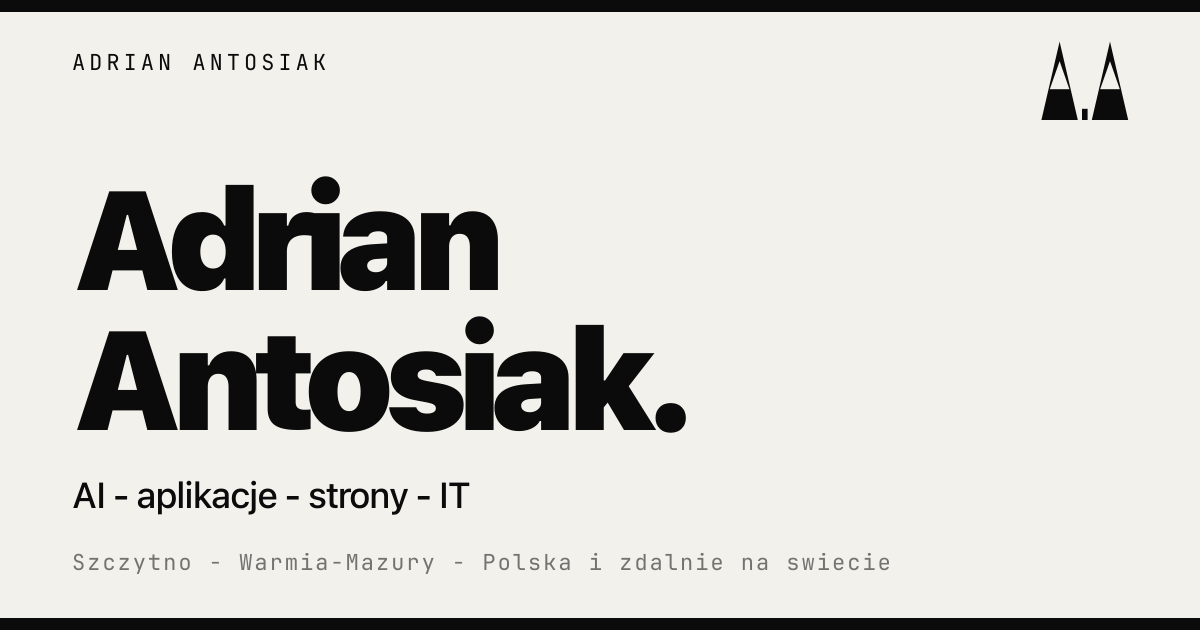
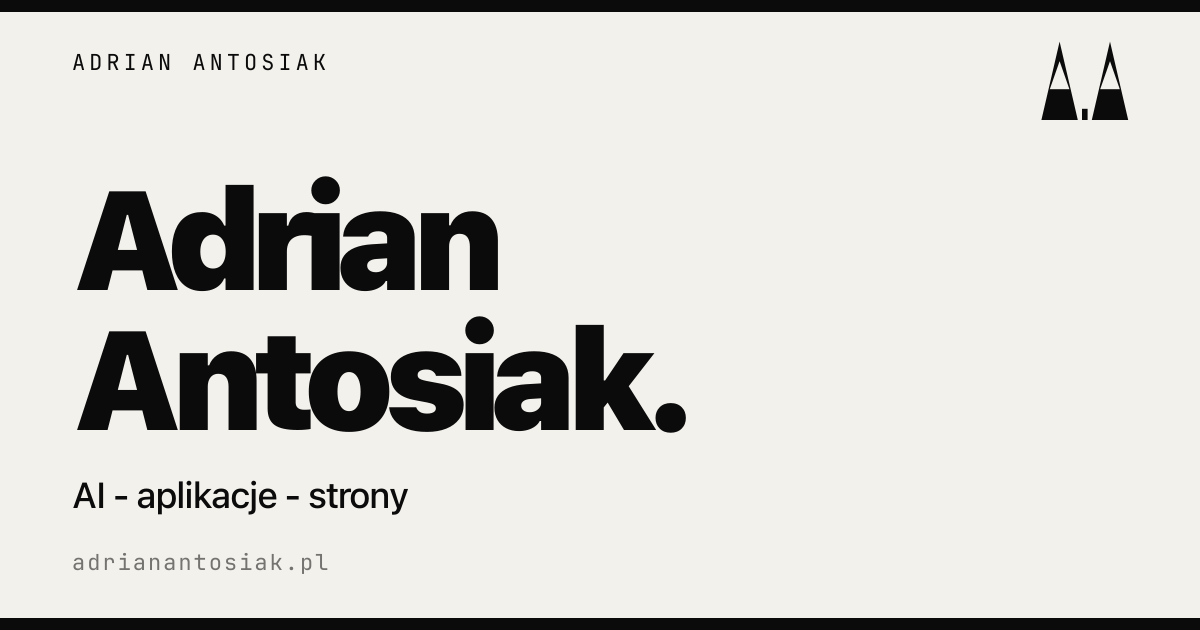
Strip role, location and year framing from UI and metadata
Remove freelancer/independent-consultant labels, Szczytno/Warmia-Mazury/Polska
references, the EST. 2024 stamp and the "Niezależny. Bez marży agencji."
tagline from visible copy, title, meta description, JSON-LD, OG image and
the privacy policy data-controller blurb. Regenerate og.png and update the
CLAUDE.md note so future sessions do not reintroduce them.

Changed region(s): [[0.4008, 0.8746, 0.74, 0.9048], [0.0617, 0.8746, 0.37, 0.9048], [0.3392, 0.754, 0.4008, 0.8143]]

diff --git a/src/react-app/App.jsx b/src/react-app/App.jsx
@@ -277,7 +277,6 @@ function Hero({ world, setWorld, onJump, isMobile, t }) {
         <div className="hero__l">
           <div className="hero__kicker">
             <span className="hero__dot"/> {t.kicker}
-            <span className="hero__stamp" aria-hidden>№ 01 · EST. 2024</span>
           </div>
           <h1 className="hero__title">
             Adrian<br/>Antosiak<span className="hero__stop" aria-hidden>.</span>
@@ -495,15 +494,11 @@ function Contact({ t, lang }) {
             <span>{t.contact.phone_l}</span><b>+48 503 751 676</b>
           </a>
           <div className="contact__item">
-            <span>{t.contact.loc_l}</span><b>{t.contact.loc_v}</b>
-          </div>
-          <div className="contact__item">
             <span>{t.contact.avail_l}</span><b>{t.contact.avail_v}</b>
           </div>
         </div>
         <div className="contact__foot">
           <span>© {new Date().getFullYear()} Adrian Antosiak</span>
-          <span>{t.contact.foot_l}</span>
           <a className="contact__privacy" href={privacyHref}>{t.contact.privacy_l}</a>
         </div>
       </div>

diff --git a/src/i18n/index.js b/src/i18n/index.js
@@ -45,11 +45,11 @@ export function getMeta(locale, page = "home") {
   return {
     ...localeBase,
     title: isEn
-      ? "Adrian Antosiak - AI, Apps, Web | Independent Consultant"
-      : "Adrian Antosiak - AI, aplikacje, strony | Niezależny konsultant",
+      ? "Adrian Antosiak - AI, Apps, Web"
+      : "Adrian Antosiak - AI, aplikacje, strony",
     description: isEn
-      ? "Independent consultant based in Szczytno, Poland. AI for business, custom applications, websites and online stores. Working from Poland, remote anywhere."
-      : "Niezależny konsultant ze Szczytna (Warmia-Mazury). Wdrożenia AI dla firm, aplikacje dopasowane do Twoich potrzeb, strony i sklepy internetowe. Działam z Polski, zdalnie wszędzie indziej.",
+      ? "AI for business, custom applications, websites and online stores."
+      : "Wdrożenia AI dla firm, aplikacje dopasowane do Twoich potrzeb, strony i sklepy internetowe.",
     ogImageAlt: isEn
       ? "Adrian Antosiak - AI, Apps, Web"
       : "Adrian Antosiak - AI, aplikacje, strony",

diff --git a/CLAUDE.md b/CLAUDE.md
@@ -23,9 +23,9 @@ Personal site for Adrian Antosiak, independent consultant (AI, apps, web, IT). P
 - HTTPS: free Let's Encrypt cert auto-provisioned and auto-renewed by GitHub. "Enforce HTTPS" is enabled in repo Settings > Pages.
 - `public/CNAME` contains `adrianantosiak.pl` and is copied to `dist/` by Astro on every build. Do not delete.
 
-## Location
+## Location / positioning
 
-- Adrian is based in **Szczytno**, Warmian-Masurian Voivodeship, Poland. Surfaced in meta description, JSON-LD (`addressLocality`, `addressRegion`, `geo`, `areaServed`), and visible copy for local-SEO queries.
+- Adrian is based in Szczytno, but **the site intentionally does not surface location, role labels, or local-SEO signals.** Do not reintroduce "freelancer", "niezależny konsultant" / "independent consultant", "Szczytno", "Warmia-Mazury" / "Warmia-Masuria", "Polska" / "Poland", or year/EST. stamps in visible UI, `<title>`, `<meta name="description">`, JSON-LD, OG image, or privacy text unless explicitly asked.
 
 ## Domain
 
@@ -39,23 +39,23 @@ Managed via home.pl panel (Domeny > adrianantosiak.pl > Zarządzaj rekordami DNS
 
 ### GitHub Pages
 
-| Type | Host | Value |
-|------|------|-------|
-| A | empty | 185.199.108.153 |
-| A | empty | 185.199.109.153 |
-| A | empty | 185.199.110.153 |
-| A | empty | 185.199.111.153 |
-| CNAME | www | 1nto5.github.io. |
+| Type  | Host  | Value            |
+| ----- | ----- | ---------------- |
+| A     | empty | 185.199.108.153  |
+| A     | empty | 185.199.109.153  |
+| A     | empty | 185.199.110.153  |
+| A     | empty | 185.199.111.153  |
+| CNAME | www   | 1nto5.github.io. |
 
 ### iCloud+ Custom Email Domain
 
-| Type | Host | Value | Priority |
-|------|------|-------|----------|
-| MX | empty | mx01.mail.icloud.com. | 10 |
-| MX | empty | mx02.mail.icloud.com. | 10 |
-| TXT | empty | apple-domain=MufmXtpgSMGhbhwf | - |
-| TXT | empty | v=spf1 include:icloud.com ~all | - |
-| CNAME | sig1._domainkey | sig1.dkim.adrianantosiak.pl.at.icloudmailadmin.com. | - |
+| Type  | Host             | Value                                               | Priority |
+| ----- | ---------------- | --------------------------------------------------- | -------- |
+| MX    | empty            | mx01.mail.icloud.com.                               | 10       |
+| MX    | empty            | mx02.mail.icloud.com.                               | 10       |
+| TXT   | empty            | apple-domain=MufmXtpgSMGhbhwf                       | -        |
+| TXT   | empty            | v=spf1 include:icloud.com ~all                      | -        |
+| CNAME | sig1.\_domainkey | sig1.dkim.adrianantosiak.pl.at.icloudmailadmin.com. | -        |
 
 ### home.pl DNS quirks
 
@@ -70,9 +70,9 @@ Managed via home.pl panel (Domeny > adrianantosiak.pl > Zarządzaj rekordami DNS
 - Provider: **iCloud+ Custom Email Domain** (included with user's iCloud+ plan, not a separate paid service).
 - Primary Apple ID inbox: `aantosiak@icloud.com`. All mail to the custom domain lands there.
 - Configured sendable addresses on `adrianantosiak.pl`:
-  - `kontakt@` (primary public contact)
-  - `hi@`
-  - `a@`
+- `kontakt@` (primary public contact)
+- `hi@`
+- `a@`
 - **Catch-all is enabled** ("Allow All Incoming Messages" = On). Any address at `adrianantosiak.pl` that doesn't match the three explicit addresses still delivers to the iCloud inbox.
 - Management UI: https://www.icloud.com/icloudplus/customdomain
 
@@ -89,7 +89,7 @@ Managed via home.pl panel (Domeny > adrianantosiak.pl > Zarządzaj rekordami DNS
 ## Conventions
 
 - Site is bilingual (PL/EN) via `src/i18n/pl.json` + `src/i18n/en.json`. When editing user-facing strings, update both locales.
-- Typography: hyphens only (`-`); never em dash (`—`) or en dash (`–`) in UI strings, comments, or docs.
+- Typography: hyphens only (`-`); never em dash (`-`) or en dash (`-`) in UI strings, comments, or docs.
 - Git interactions (commit messages, branch names, PR titles/descriptions) in English.
 - All commits require user approval of the message before creation.
 - Before every push, confirm `bun run build` succeeds locally - the deploy action repeats the build, but catching errors here saves a failed Actions run.
